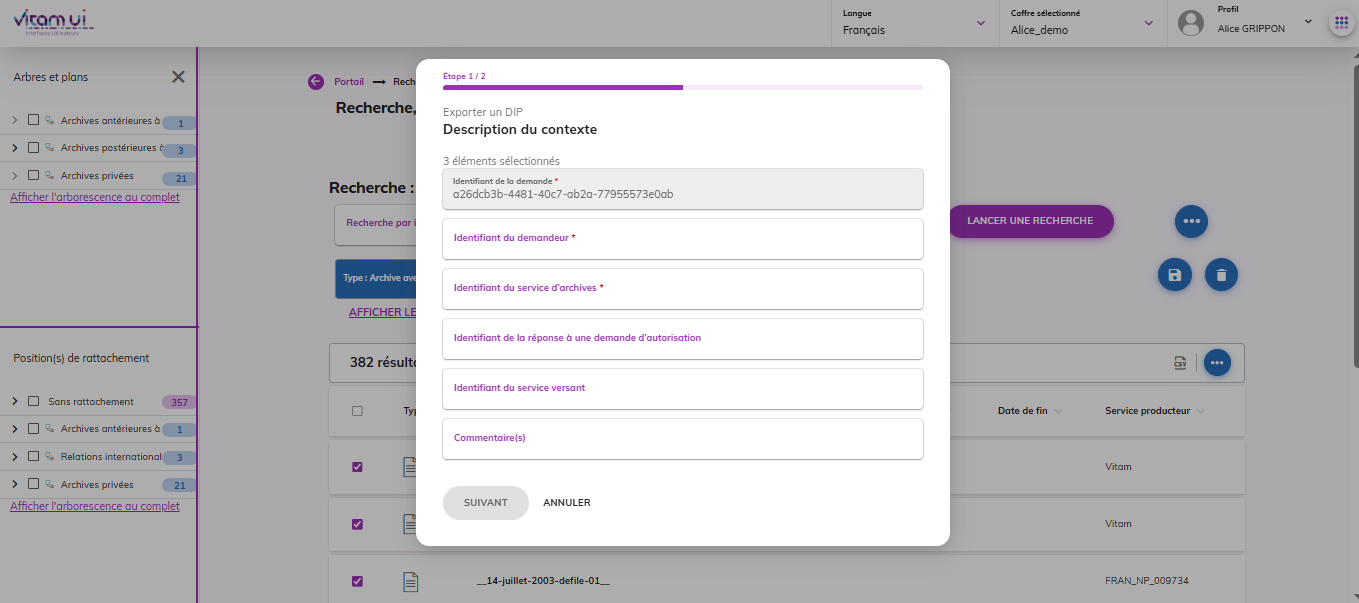
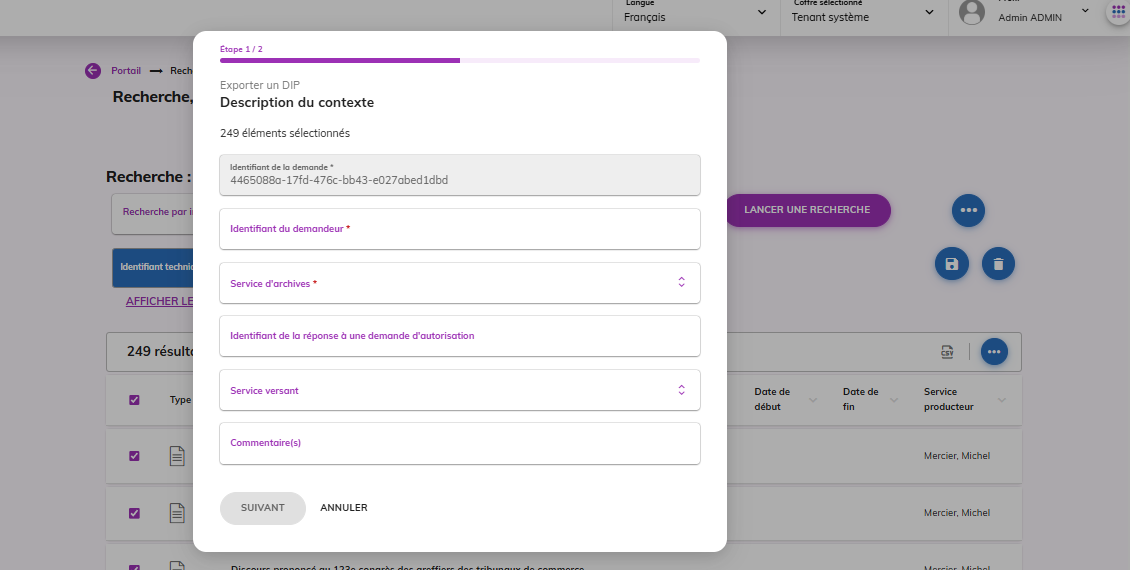
9.0_DIP (#178)
* US_14296

maj img sur DIP complet (sélecteurs), réintégration de la partie sur le DIP minimal, remise en cohérence du propos sur le DIP complet

* MAJ_9.0

retrait des références à l'IHM démo dans le transfert d'archives

* 14981

version du SEDA par défaut = 2.3

diff --git a/source/sections/DIP.md b/source/sections/DIP.md
@@ -12,6 +12,7 @@ Introduction
 |NF Z 44022 – MEDONA – Modélisation des données pour l’archivage|18/01/2014|
 |Standard d’échange de données pour l’archivage – SEDA – v. 2.1|06/2018|         
 |Standard d’échange de données pour l’archivage – SEDA – v. 2.2|02/2022|
+|Standard d’échange de données pour l’archivage – SEDA – v. 2.3|06/2024|
 |Référentiel général de sécurité (RGS) – v. 2.0|10/06/2015|
 |ISO 14 721:2012 – Systèmes de transfert des informations et données spatiales -- Système ouvert d’archivage d’information (SOAI) -- Modèle de référence|01/09/2012|
 
@@ -118,6 +119,58 @@ Il est possible d’exporter dans le manifeste les journaux du cycle de vie des 
 
 Si pour un usage donné le groupe d’objets techniques comprend plusieurs versions, c’est l’objet technique correspondant à la dernière version qui sera exporté.
 
+Le DIP minimal
+----
+La solution logicielle Vitam permet d’exporter un DIP dit minimal, composé du répertoire contenant les objets numériques demandés et d’un manifeste simplifié, constitué autour du DataObjectPackage.
+
+Ce bordereau minimal peut être enrichi par la suite par l’utilisateur applicatif qui l’a demandé pour constituer l’une des demandes d’autorisation prévues par le SEDA (AuthorizationOriginatingAgencyRequest, AuthorizationOriginatingAgencyRequestReply, AuthorizationControlAuthorityRequest et AuthorizationControlAuthorityRequestReply).
+
+### Les modalités de lancement de l’opération de mise à disposition du DIP minimal
+
+Via les API aux bornes de la solution logicielle Vitam, plusieurs critères de constitution du DIP sont utilisables : identifiant d’une opération d’entrée, unité archivistique précise, ensemble des unités archivistiques dépendant d’une unité archivistique précise, etc. Des filtres supplémentaires peuvent être demandés sur : 
+
+- les usages. Ce filtre sera contrôlé par rapport aux droits octroyés par le contrat accès ;
+- la version du SEDA. Ce filtre fonctionne de la manière suivante :
+  - S’il n’est pas utilisé, le DIP généré sera déclaré en SEDA 2.3 ;
+  - Un contrôle de compatibilité est effectué entre la version du SEDA demandée dans le DIP et celle des unités archivistiques devant intégrer ce dernier.
+
+Au lancement de l’opération, la solution logicielle Vitam génère un identifiant de l’opération. Le DIP constitué a pour nom cet identifiant d’opération.
+L’opération est journalisée. Suivant l’activation ou non de la fonctionnalité dans le contrat d’accès associé à la demande de génération du DIP, l’opération sera tracée dans les logs d’accès.
+
+Elle peut aboutir aux statuts suivants :
+
+Statut|Motifs|
+|:---|:---|
+|Succès|Opération réalisée sans rencontrer de problèmes particuliers.|
+|Avertissement|- Le lot d’archives sélectionné n’a pas d’objets binaires.<br>- Au moins une des unités archivistiques sélectionnées a déjà fait l’objet d’une opération de demande de transfert.<br>- Le poids du DIP est supérieur ou égal au seuil de tenant qui a été défini avec autorisation d’être dépassé.<br>- Le poids du DIP est supérieur ou égal au seuil de plate-forme qui a été défini sans qu’aucun seuil de tenant n’ait été défini.|
+|Échec|- Au moins un des champs obligatoires (ArchivalAgreement, ArchivalAgency, OriginatingAgencyIdentifier) n’a pas été renseigné.<br>- Le poids du DIP est supérieur au seuil de requête.<br>- Le poids du DIP est supérieur ou égal au seuil de tenant qui a été défini sans autorisation d’être dépassé et dépasse le seuil de plate-forme.<br>- La version du SEDA des unités archivistiques est incompatible avec celle demandée pour le DIP.|
+|Erreur technique|Erreur technique lors du déplacement des objets binaires de l'offre de stockage vers l'espace de travail interne.|
+
+**Point d’attention :**
+
+- Dans le cas d’un DIP correspondant à une opération d’entrée, le paquet comprendra toutes les unités importées dans le système via cette opération d’entrée dans leur état au moment de la demande d’export du DIP : certaines unités archivistiques pourront avoir été modifiées ou éliminées depuis l’opération d’entrée initiale.
+- Si pour un usage donné le groupe d’objets techniques comprend plusieurs versions, c’est l’objet technique correspondant à la dernière version qui sera exporté.
+- Il n'est pas possible d'exporter un DIP minimal depuis les interfaces de VitamUI.
+
+### Les modalités de récupération du DIP minimal
+
+Lorsque l’opération d’export du DIP est terminée, le DIP peut être récupéré :
+
+- par API, en utilisant le service fourni par le endpoint access-external/v1/dipexport, au moyen de l’identifiant de l’opération d’export ;
+- depuis VitamUI, à partir de l’APP Journal des opérations.
+
+Il est également possible de récupérer l’empreinte du DIP générée depuis le journal des opérations et disponible à la tâche de Création de l’archive et de son déplacement vers l’espace de stockage .
+
+### Le bordereau du DIP minimal
+
+À la racine du DIP se trouve le bordereau de mise à disposition qui décrit l’ensemble des métadonnées du paquet. Il est composé :
+
+- d’une déclaration des objets binaires (DataObjectPackage > BinaryDataObject) ou des objets physiques (DataObjectPackage > PhysicalDataObject), le cas échéant avec les journaux du cycle de vie des objets ;
+- d’une déclaration des unités archivistiques représentées par ces objets (DataObjectPackage > DescriptiveMetadata) :
+    - avec leurs métadonnées de gestion, avec, le cas échéant, les journaux du cycle de vie associés ;
+    - avec leurs métadonnées descriptives ;
+- de métadonnées communes à toute l’arborescence d’unités archivistiques : déclaration du service producteur (hérité de la balise OriginatingAgencyIdentifier présente dans le ManagementMetadata du SIP à l’origine de l’entrée pour les DIP mono-producteurs ; pour les DIP multi-producteurs, la valeur de ce champ est « Export VITAM » [^3]).
+
 Le DIP complet
 ----
 
@@ -125,27 +178,14 @@ La solution logicielle Vitam permet d’exporter un DIP dit complet [^2], compos
 
 ### Les modalités de lancement de l’opération de mise à disposition du DIP complet
 
-Depuis l’IHM Vitam UI accompagnant la solution logicielle Vitam, à partir l'APP Recherche et consultation des archives, il est possible de demander à générer un DIP complet 
-- de l’unité archivistique uniquement
-- de l’unité archivistique et de ses filles,-
-- d'une sélection d'unités archivistitiques,
-- d'une opération d’entrée (ingest) initiale.
+Depuis VitamUI, il est possible de demander à générer un DIP complet dans l’APP Recherche et consultation des archives, après avoir préalablement sélectionné un lot d’archives.
 
 ![](./medias/DIP/ihm.png)
 
-![](./medias/DIP/ihm2.png)
-
-Le DIP complet peut être filtré sur un type d’usage. Le ou les usages retenus doivent être cohérents avec les droits octroyés par le contrat d’accès associé à la demande de génération du DIP.
-
-![](./medias/DIP/ihm2bis.png)
-
-Via les API aux bornes de la solution logicielle Vitam, plusieurs critères de constitution du DIP complet sont utilisables : identifiant d’une opération d’entrée, unité archivistique précise, ensemble des unités archivistiques dépendant d’une unité archivistique précise, etc. Des filtres supplémentaires peuvent être demandés sur : 
-- les usages. Ce filtre sera contrôlé par rapport aux droits octroyés par le contrat accès ;
-- la version du SEDA. Ce filtre fonctionne de la manière suivante :
-    - S’il n’est pas utilisé, le DIP généré sera déclaré en SEDA 2.2 ;
-    - Un contrôle de compatibilité est effectué entre la version du SEDA demandée dans le DIP et celle des unités archivistiques devant intégrer ce dernier.
+Via les API aux bornes de la solution logicielle Vitam, plusieurs critères de constitution du DIP complet sont utilisables : identifiant d’une opération d’entrée, unité archivistique précise, ensemble des unités archivistiques dépendant d’une unité archivistique précise, etc. 
 
 La constitution du DIP complet nécessite de définir plusieurs paramètres qui seront utilisés pour renseigner le manifeste :
+
 - informations obligatoires :
     - identifiant du service d’archives (sous-bloc Identifier inclus dans le bloc ArchivalAgency),
     - identifiant de la demande (MessageRequestIdentifier),
@@ -157,10 +197,22 @@ La constitution du DIP complet nécessite de définir plusieurs paramètres qui 
 
 Les valeurs de ces paramètres ne sont pas contrôlées par rapport aux référentiels présents dans la solution logicielle Vitam. Ainsi, il est tout à fait possible, par exemple, d’indiquer un identifiant de service d’archives qui ne figure pas dans le référentiel des services agents.
 
+Des filtres supplémentaires peuvent être demandés sur : 
+
+- les usages. Ce filtre sera contrôlé par rapport aux droits octroyés par le contrat accès ;
+- la version du SEDA. Ce filtre fonctionne de la manière suivante :
+    - S’il n’est pas utilisé, le DIP généré sera déclaré en SEDA 2.3 ;
+    - Un contrôle de compatibilité est effectué entre la version du SEDA demandée dans le DIP et celle des unités archivistiques devant intégrer ce dernier.
+
 Au cours de cette constitution il est également possible de définir la forme que prennent les fichiers exportés : 
-- à plat, nommés par leur GUID (dans Vitam UI et par API)
+
+- à plat, nommés par leur GUID (dans VitamUI et par API)
 - dans des dossiers reconstituants l'arborescence d'origine de ces fichiers, nommés par leur Title (dans Vitam UI et par API)
 - dans des dossiers reconstituants l'arborescence d'origine de ces fichiers, nommés par leur GUID (par API uniquement)
+
+![](./medias/DIP/ihm2.png)
+
+![](./medias/DIP/ihm2bis.png)
 
 Au lancement de l’opération, la solution logicielle Vitam génère un identifiant de l’opération. Le DIP constitué a pour nom cet identifiant d’opération.
 
@@ -182,12 +234,11 @@ Elle peut aboutir aux statuts suivants :
 ### Les modalités de récupération du DIP complet
 
 Lorsque l’opération d’export du DIP complet est terminée, le DIP peut être récupéré :
-- depuis l’IHM standard, à partir du journal des opérations en cliquant sur la ligne de l’opération d’export du DIP pour accéder à l’écran de détail, puis en affichant le champ « rapport » (via le sélecteur « Informations supplémentaires »),
-
-![](./medias/DIP/ihm3.png)  
 
 - par API, en utilisant le service fourni par le endpoint access-external/v2/dipexport, au moyen de l’identifiant de l’opération d’export ;
 - depuis VitamUI, à partir de l’APP Journal des opérations.
+
+![](./medias/DIP/ihm3.png)
 
 Il est également possible de récupérer l’empreinte du DIP générée depuis le journal des opérations et disponible à la tâche de Création de l’archive et de son déplacement vers l’espace de stockage.
 
@@ -210,17 +261,9 @@ Le DIP généré dans le cadre du transfert doit pouvoir être pris en charge su
 
 ### Les modalités de lancement de l’opération de mise à disposition du DIP de transfert
 
-Depuis l’IHM standard accompagnant la solution logicielle Vitam, à partir de la page de détail d’une unité archivistique, il est possible de demander à générer un DIP de transfert de l’unité archivistique uniquement ou de l’unité archivistique et de ses filles, ou bien un DIP de transfert correspondant à l’opération d’entrée (ingest) initiale[^4].
+Depuis VitamUI, il est également possible de demander à générer un DIP de transfert dans l’APP Recherche et consultation des archives, après avoir préalablement sélectionné un lot d’archives.
 
-- Le DIP de transfert peut être filtré sur un type d’usage. Le ou les usages retenus doivent être cohérents avec les droits octroyés par le contrat d’accès associé à la demande de génération du DIP.  
-![](./medias/DIP/ihm8.png)  
-Dans l’état actuel des développements, il n’est pas possible, depuis l’IHM standard, de demander à générer un DIP de transfert du panier ou d’une sélection présente dans le panier.
-- Depuis VitamUI, il est également possible de demander à générer un DIP de transfert dans l’APP Recherche et consultation des archives, après avoir préalablement sélectionné un lot d’archives.
-- Via les API aux bornes de la solution logicielle Vitam, plusieurs critères de constitution du DIP complet sont utilisables : identifiant d’une opération d’entrée, unité archivistique précise, ensemble des unités archivistiques dépendant d’une unité archivistique précise, etc. Des filtres supplémentaires peuvent être demandés sur : 
-    - les usages. Ce filtre sera contrôlé par rapport aux droits octroyés par le contrat accès ;
-    - la version du SEDA. Ce filtre fonctionne de la manière suivante :
-        - S’il n’est pas utilisé, le DIP généré sera déclaré en SEDA 2.2 ;
-        - Un contrôle de compatibilité est effectué entre la version du SEDA demandée dans le DIP et celle des unités archivistiques devant intégrer ce dernier.
+Via les API aux bornes de la solution logicielle Vitam, plusieurs critères de constitution du DIP complet sont utilisables : identifiant d’une opération d’entrée, unité archivistique précise, ensemble des unités archivistiques dépendant d’une unité archivistique précise, etc. 
 
 La constitution du DIP de transfert nécessite de définir plusieurs paramètres qui seront utilisés pour renseigner le manifeste :
 - informations obligatoires :
@@ -235,6 +278,12 @@ La constitution du DIP de transfert nécessite de définir plusieurs paramètres
     - identifiant du service de transfert (sous-bloc Identifier du bloc TransferringAgency). Si ce bloc obligatoire n’est pas renseigné, il sera automatiquement incrémenté par la valeur « Vitam ».
 
 Les valeurs de ces paramètres ne sont pas contrôlées par rapport aux référentiels présents dans la solution logicielle Vitam. Ainsi, il est tout à fait possible, par exemple, d’indiquer un identifiant de service d’archives qui ne figure pas dans le référentiel des services agents.
+
+Des filtres supplémentaires peuvent être demandés sur : 
+    - les usages. Ce filtre sera contrôlé par rapport aux droits octroyés par le contrat accès ;
+    - la version du SEDA. Ce filtre fonctionne de la manière suivante :
+        - S’il n’est pas utilisé, le DIP généré sera déclaré en SEDA 2.3 ;
+        - Un contrôle de compatibilité est effectué entre la version du SEDA demandée dans le DIP et celle des unités archivistiques devant intégrer ce dernier.
 
 Au lancement de l’opération, la solution logicielle Vitam génère un identifiant de l’opération. Le DIP de transfert constitué a pour nom cet identifiant d’opération.
 
@@ -256,9 +305,7 @@ Elle peut aboutir aux statuts suivants :
 ### Les modalités de récupération du DIP de transfert
 
 Lorsque l’opération d’export du DIP de transfert est terminée, le DIP peut être récupéré :
-- depuis l’IHM standard, à partir du journal des opérations en cliquant sur la ligne de l’opération d’export du DIP pour accéder à l’écran de détail, puis en affichant le champ « rapport » (via le sélecteur « Informations supplémentaires »),  
-![](./medias/DIP/ihm9.png)  
-![](./medias/DIP/ihm10.png)  
+
 - par API, en utilisant le service fourni par le endpoint access-external/v1/transfers, au moyen de l’identifiant de l’opération d’export.
 - depuis VitamUI, à partir de l’APP Journal des opérations.
 
